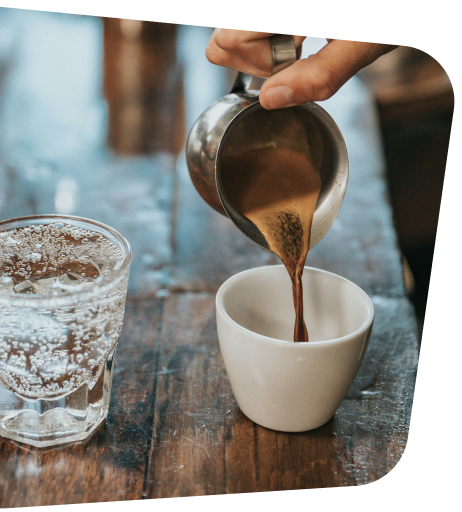
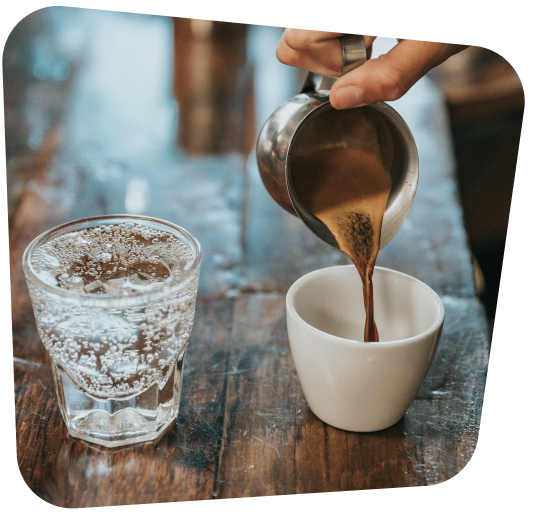
fix: css styling in mobile order n pay

diff --git a/web/mobile-order-and-pay.html b/web/mobile-order-and-pay.html
@@ -97,31 +97,38 @@
     </div>
 
     <div class="wrapper dark top">
-        <div class="orderahead">
-            <img class="order-ahead-img" src="images/mobile-order-&-pay img1.png" alt="order-ahead-img">
-            <div class="orderahead text">
-                <h3>No Time? Order Ahead</h3>
-                <p>Say hello to one of the easiest ways to get your favorite beverage. Discover the new
-                    Mobile Order & Pay feature on the iPhone or Android mobile app, place order at
-                    your fingertips and just head to the pickup area – off you go!
+        <div class="top">
+            <div class="orderahead">
+                <img class="order-ahead-img" src="images/mobile-order-&-pay img1.png" alt="order-ahead-img">
+                <div class="orderahead-text">
+                    <h3>No Time? Order Ahead</h3>
+                    <p>Say hello to one of the easiest ways to get your favorite beverage. Discover the new
+                        Mobile Order & Pay feature on the iPhone or Android mobile app, place order at
+                        your fingertips and just head to the pickup area - off you go! <br><br>
 
-                    Click <a href="stores.html">here</a> to check out the list of stores near you.</p>
+                        Click <a href="stores.html">here</a> to check out the list of stores near you.</p>
+                </div>
             </div>
-        </div>
 
-        <div class="morerewards">
-            <div class="morerewards text">
-                <h3>More Stars, More Rewards</h3>
-                <p>Rewards members can now collect Stars through purchases on Mobile Order & Pay, earn Stars as much as
-                    you can and redeem your available rewards with us.
-                    Not a member yet? Register now and begin your Star journey right away.</p>
+            <div class="morerewards">
+                <img class="more-rewards-img" src="images/mobile-order-&-pay img2.png" alt="more-rewards-img">
+                <div class="morerewards-text">
+                    <h3>More Stars, More Rewards</h3>
+                    <p>Rewards members can now collect Stars through purchases on Mobile Order & Pay, earn Stars as much
+                        as
+                        you can and redeem your available rewards with us. <br> Not a member yet? Register now and begin
+                        your Star journey right away.</p>
+                </div>
+
             </div>
-            <img class="more-rewards-img" src="images/mobile-order-&-pay img2.png" alt="more-rewards-img">
         </div>
     </div>
 
     <div class="wrapper light">
         <h3>Now just a few steps away to get your favorite coffee</h3>
+        <div class="steps-image-top">
+            <img src="images/mobile-order-&-pay illustration.png" alt="illustration">
+        </div>
         <div class="steps-grid">
             <!-- LEFT -->
             <div class="step firststep">1. Log into the mobile app.</div>
@@ -143,7 +150,7 @@
         </div>
     </div>
 
-    <div class="wrapper dark bottom">
+    <div class="dark-bottom">
         <div class="tnc">
             <h3>Terms and Conditions</h3>
             <p>

diff --git a/web/css/mobile-order-and-pay.css b/web/css/mobile-order-and-pay.css
@@ -10,47 +10,67 @@ body {
         url('../images/header-mobile-order-and-pay.jpg');
 }
 
+.wrapper {
+    overflow: hidden;
+}
 
 /* top wrapper */
 .top {
     display: flex;
     flex-direction: column;
-    gap: clamp(80px, 10vw, 140px);
+    border-radius: 0 0 30px 30px;
+
 }
 
 .orderahead,
 .morerewards {
-    display: flex;
     align-items: center;
-    justify-content: space-between;
-    gap: clamp(40px, 6vw, 80px);
+    position: relative;
+    display: flex;
+    gap: clamp(80px, 10vw, 140px);
+}
+
+.morerewards {
+    flex-direction: row-reverse;
 }
 
 /*images*/
-.order-ahead-img,
+
+.order-ahead-img {
+    width: 100%;
+    max-width: 787px;
+    max-height: fit-content;
+    margin-left: -260px;
+    padding-right: clamp(10px, 7vw, 85px);
+}
+
 .more-rewards-img {
-    width: 45%;
-    max-width: 520px;
+    width: 100%;
+    max-width: 787px;
+    max-height: fit-content;
+    margin-right: -260px;
+    padding-left: clamp(10px, 7vw, 85px);
 }
 
 /* === TEXT BLOCKS === */
-.orderahead.text,
-.morerewards.text {
+.orderahead-text,
+.morerewards-text {
+    flex-direction: column;
     width: 45%;
-    max-width: 480px;
+    max-width: 100%;
 }
 
-.orderahead.text h3,
-.morerewards.text h3 {
-    margin-bottom: 20px;
+.orderahead-text h3,
+.morerewards-text h3 {
+    margin-bottom: 80px;
 }
 
-.orderahead.text p,
-.morerewards.text p {
+.orderahead-text p,
+.morerewards-text p {
     color: var(--grey-dark);
 }
 
-.orderahead.text a {
+.orderahead-text a {
     text-decoration: underline;
     font-weight: 500;
 }
@@ -67,7 +87,7 @@ body {
     display: grid;
     grid-template-columns: 1fr auto 1fr;
     grid-template-rows: repeat(3, auto) auto;
-    column-gap: clamp(40px, 6vw, 80px);
+    column-gap: clamp(40px, 0vw, 80px);
     row-gap: clamp(30px, 4vw, 60px);
     align-items: center;
     justify-items: center;
@@ -93,6 +113,7 @@ body {
 
 /* CENTER IMAGE */
 .steps-image {
+    max-width: 100%;
     grid-row: 1 / span 3;
     grid-column: 2;
 }
@@ -112,6 +133,16 @@ body {
     animation-range: entry 15% cover 35%;
 }
 
+.steps-image-top {
+    display: none;
+}
+
+.dark-bottom {
+    background-color: var(--dark);
+    border-radius: 30px 30px 0 0;
+    padding: 80px 20px 60px;
+}
+
 @keyframes stepReveal {
     from {
         opacity: 0;
@@ -123,7 +154,6 @@ body {
         transform: translateY(0);
     }
 }
-
 
 .tnc h3 {
     text-align: center;
@@ -159,6 +189,12 @@ body {
 
 
 @media (max-width: 768px) {
+
+    .order-ahead-img,
+    .more-rewards-img {
+        display: none;
+    }
+
     .steps-grid {
         grid-template-columns: 1fr;
         grid-template-rows: auto;
@@ -167,11 +203,25 @@ body {
 
     .steps-image,
     .seventhstep {
-        grid-row: auto;
         grid-column: auto;
+    }
+
+    .seventhstep {
+        margin-top: -0;
     }
 
     .steps-image img {
         max-width: 220px;
+        display: none;
+    }
+
+    .steps-image-top {
+        display: block;
+        text-align: center;
+        margin-bottom: 20px;
+    }
+
+    .tnc h3 {
+        margin-bottom: 40px;
     }
 }
